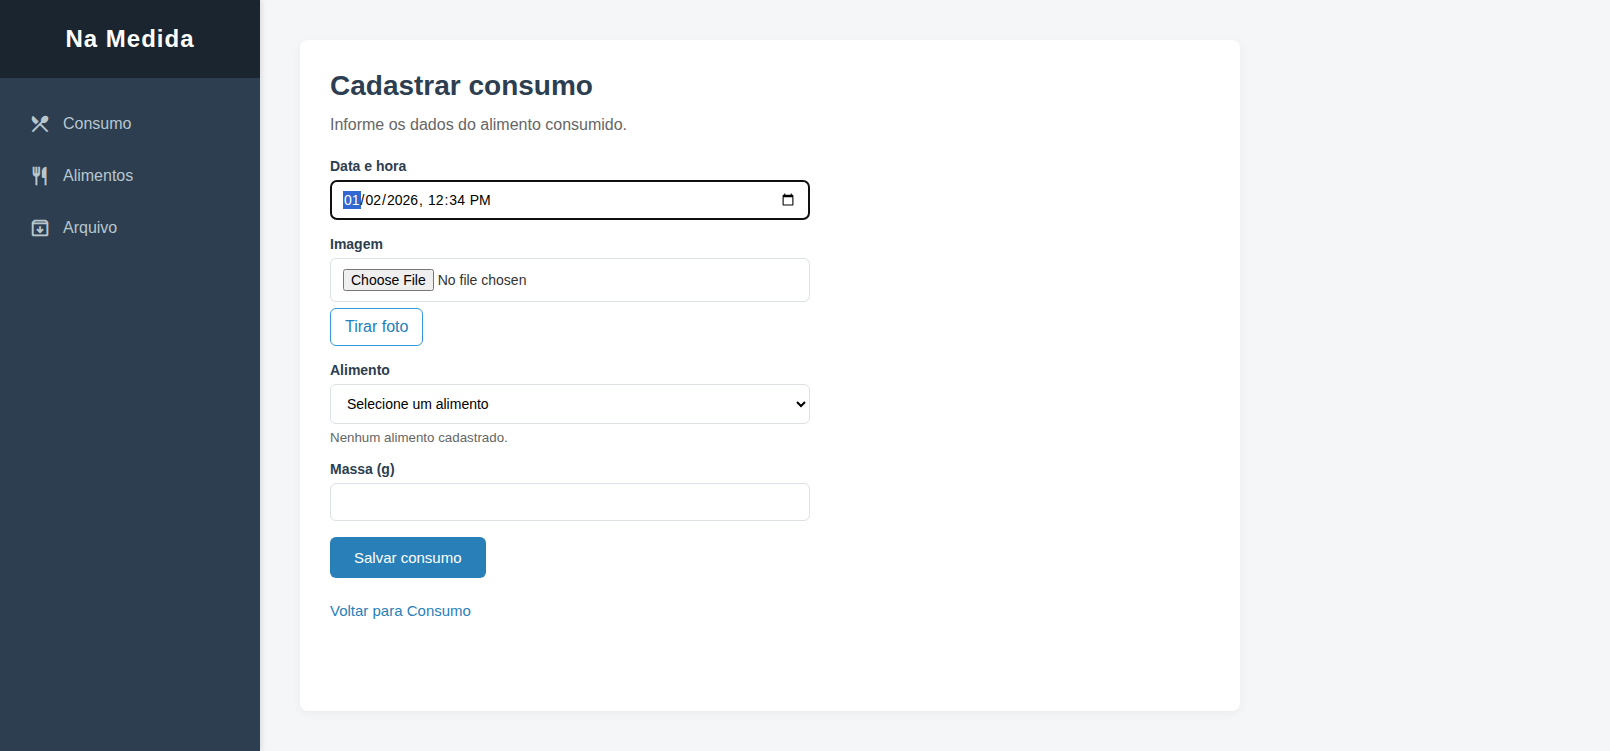
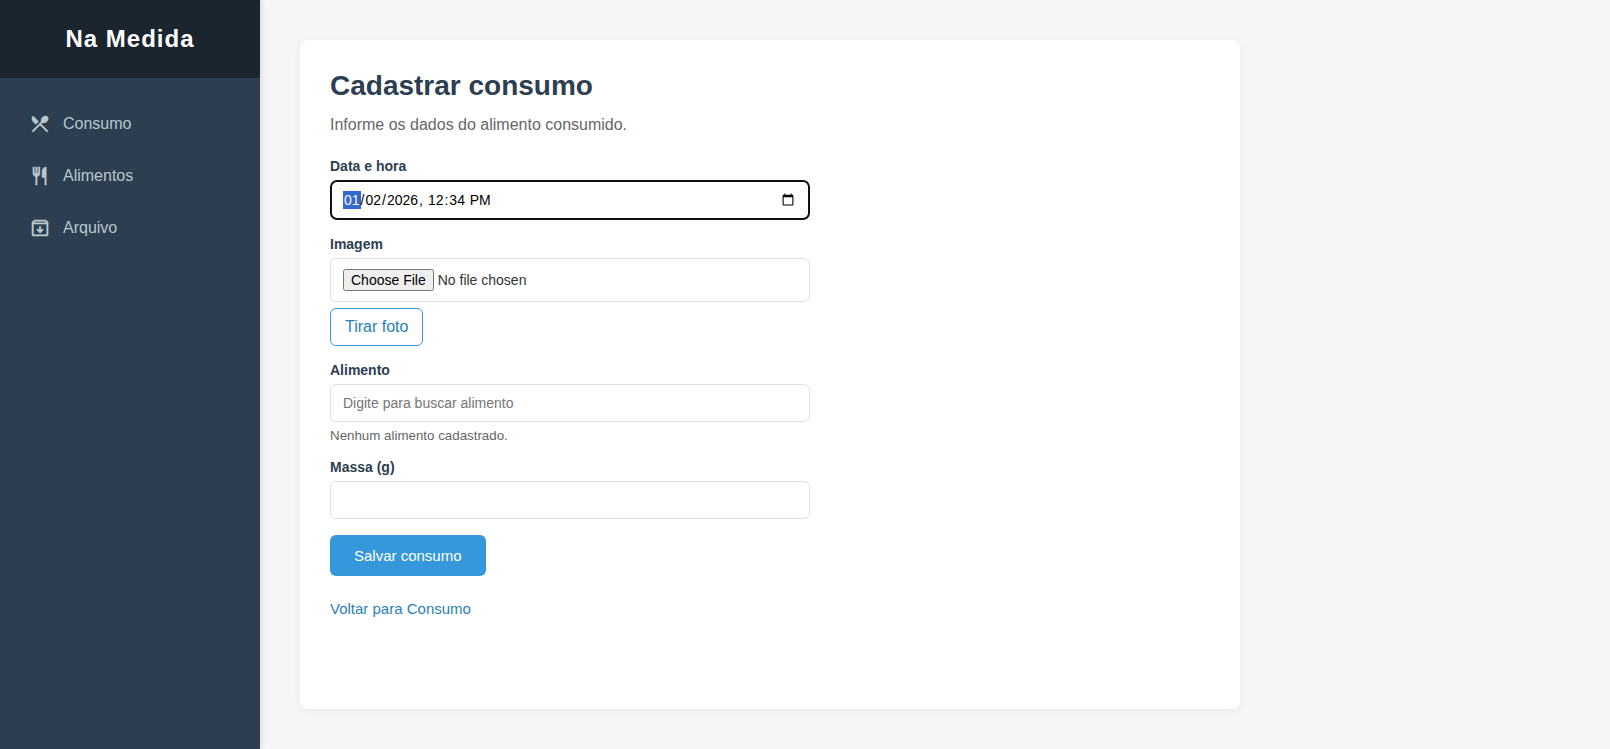
Adiciona busca de alimentos no consumo

diff --git a/fonte/pages/CadastroConsumo.svelte b/fonte/pages/CadastroConsumo.svelte
@@ -9,8 +9,14 @@
   let imagemPreview = $state('');
   let cameraInput;
   let alimentoId = $state('');
+  let alimentoBusca = $state('');
+  let sugestoesAbertas = $state(false);
+  let sugestaoAtiva = $state(-1);
   let massa = $state('');
   let erro = $state('');
+  let alimentosFiltrados = $derived(
+    alimentos.filter((alimento) => alimento.nome.toLocaleLowerCase('pt-BR').includes(alimentoBusca.trim().toLocaleLowerCase('pt-BR')))
+  );
 
   onMount(async () => {
     alimentos = await listarAlimentos();
@@ -25,6 +31,42 @@
     if (imagemPreview) URL.revokeObjectURL(imagemPreview);
     imagem = event.currentTarget.files?.[0] ?? null;
     imagemPreview = imagem?.type.startsWith('image/') ? URL.createObjectURL(imagem) : '';
+  }
+
+  function atualizarBuscaAlimento(event) {
+    alimentoBusca = event.currentTarget.value;
+    alimentoId = '';
+    sugestoesAbertas = true;
+    sugestaoAtiva = -1;
+    erro = '';
+  }
+
+  function selecionarAlimento(alimento) {
+    alimentoBusca = alimento.nome;
+    alimentoId = String(alimento.id);
+    sugestoesAbertas = false;
+    sugestaoAtiva = -1;
+    erro = '';
+  }
+
+  function navegarSugestoes(event) {
+    if (event.key === 'Escape') {
+      sugestoesAbertas = false;
+      return;
+    }
+
+    if (!sugestoesAbertas || alimentosFiltrados.length === 0) return;
+
+    if (event.key === 'ArrowDown') {
+      event.preventDefault();
+      sugestaoAtiva = (sugestaoAtiva + 1) % alimentosFiltrados.length;
+    } else if (event.key === 'ArrowUp') {
+      event.preventDefault();
+      sugestaoAtiva = (sugestaoAtiva - 1 + alimentosFiltrados.length) % alimentosFiltrados.length;
+    } else if (event.key === 'Enter') {
+      event.preventDefault();
+      selecionarAlimento(alimentosFiltrados[sugestaoAtiva >= 0 ? sugestaoAtiva : 0]);
+    }
   }
 
   onDestroy(() => {
@@ -83,12 +125,44 @@
 
     <div class="form-row">
       <label for="alimento-consumo">Alimento</label>
-      <select id="alimento-consumo" bind:value={alimentoId} required>
-        <option value="" disabled>Selecione um alimento</option>
-        {#each alimentos as alimento (alimento.id)}
-          <option value={String(alimento.id)}>{alimento.nome}</option>
-        {/each}
-      </select>
+      <input
+        id="alimento-consumo"
+        type="text"
+        value={alimentoBusca}
+        placeholder="Digite para buscar alimento"
+        role="combobox"
+        aria-autocomplete="list"
+        aria-controls="sugestoes-alimentos"
+        aria-expanded={sugestoesAbertas && alimentosFiltrados.length > 0}
+        aria-activedescendant={sugestaoAtiva >= 0 ? `sugestao-alimento-${alimentosFiltrados[sugestaoAtiva]?.id}` : undefined}
+        oninput={atualizarBuscaAlimento}
+        onkeydown={navegarSugestoes}
+        onfocus={() => { if (!alimentoId) sugestoesAbertas = true; }}
+        required
+      />
+      {#if sugestoesAbertas && !alimentoId && alimentosFiltrados.length > 0}
+        <ul id="sugestoes-alimentos" class="sugestoes-alimentos" role="listbox">
+          {#each alimentosFiltrados as alimento, indice (alimento.id)}
+            <li
+              id={`sugestao-alimento-${alimento.id}`}
+              role="option"
+              tabindex="-1"
+              aria-selected={indice === sugestaoAtiva}
+              onmouseenter={() => { sugestaoAtiva = indice; }}
+              onmousedown={(event) => event.preventDefault()}
+              onkeydown={(event) => {
+                if (event.key === 'Enter' || event.key === ' ') {
+                  event.preventDefault();
+                  selecionarAlimento(alimento);
+                }
+              }}
+              onclick={() => selecionarAlimento(alimento)}
+            >
+              {alimento.nome}
+            </li>
+          {/each}
+        </ul>
+      {/if}
       {#if alimentos.length === 0}
         <small>Nenhum alimento cadastrado.</small>
       {/if}

diff --git a/testes/consumo.spec.js b/testes/consumo.spec.js
@@ -17,6 +17,25 @@ test('exibe o formulário de cadastro de Consumo', async ({ page }) => {
   await expect(page).toHaveScreenshot('cadastro-consumo.png', { fullPage: true });
 });
 
+test('exibe visualmente as sugestões filtradas de alimentos', async ({ page }) => {
+  await page.goto('/');
+  await page.getByRole('button', { name: /Alimentos/ }).click();
+
+  for (const nome of ['Aveia em flocos', 'Arroz branco']) {
+    await page.getByRole('button', { name: 'Cadastrar alimento' }).click();
+    await page.getByLabel('Nome').fill(nome);
+    await page.getByRole('button', { name: 'Salvar alimento' }).click();
+    await page.getByRole('button', { name: /Alimentos/ }).click();
+  }
+
+  await page.getByRole('button', { name: /Consumo/ }).click();
+  await page.clock.install({ time: new Date('2026-01-02T12:00:00') });
+  await page.getByRole('button', { name: 'Cadastrar consumo' }).click();
+  await page.getByLabel('Alimento').fill('Aveia');
+
+  await expect(page).toHaveScreenshot('cadastro-consumo-com-sugestoes.png', { fullPage: true });
+});
+
 test('exibe uma miniatura ao selecionar imagem para o consumo', async ({ page }) => {
   await page.goto('/');
   await page.clock.install({ time: new Date('2026-01-02T12:00:00') });
@@ -61,7 +80,8 @@ test('exibe visualmente um consumo após o cadastro', async ({ page }) => {
     mimeType: 'image/png',
     buffer: Buffer.from('imagem-de-teste')
   });
-  await page.getByLabel('Alimento').selectOption({ label: 'Aveia em flocos' });
+  await page.getByLabel('Alimento').fill('Aveia');
+  await page.getByRole('option', { name: 'Aveia em flocos' }).click();
   await page.getByLabel('Massa (g)').fill('45');
   await page.getByRole('button', { name: 'Salvar consumo' }).click();
 
@@ -100,7 +120,8 @@ test('exibe o resumo nutricional de hoje e a média dos sete dias anteriores', a
   for (const [dataHora, massa] of [['2026-01-02T12:00', '100'], ['2026-01-01T12:00', '700']]) {
     await page.getByRole('button', { name: 'Cadastrar consumo' }).click();
     await page.getByLabel('Data e hora').fill(dataHora);
-    await page.getByLabel('Alimento').selectOption({ label: 'Alimento do resumo' });
+    await page.getByLabel('Alimento').fill('Alimento do resumo');
+    await page.getByRole('option', { name: 'Alimento do resumo' }).click();
     await page.getByLabel('Massa (g)').fill(massa);
     await page.getByRole('button', { name: 'Salvar consumo' }).click();
   }

diff --git a/fonte/style.css b/fonte/style.css
@@ -264,6 +264,28 @@ p {
     background-color: #fff;
 }
 
+.sugestoes-alimentos {
+    max-height: 180px;
+    overflow-y: auto;
+    margin: -6px 0 0;
+    padding: 4px 0;
+    list-style: none;
+    border: 1px solid #dce1e6;
+    border-radius: 6px;
+    background: #fff;
+    box-shadow: 0 4px 10px rgb(16 24 40 / 12%);
+}
+
+.sugestoes-alimentos li {
+    padding: 9px 12px;
+    cursor: pointer;
+}
+
+.sugestoes-alimentos li:hover,
+.sugestoes-alimentos li[aria-selected="true"] {
+    background: #eef6fc;
+}
+
 .form-row small {
     color: #666;
 }
